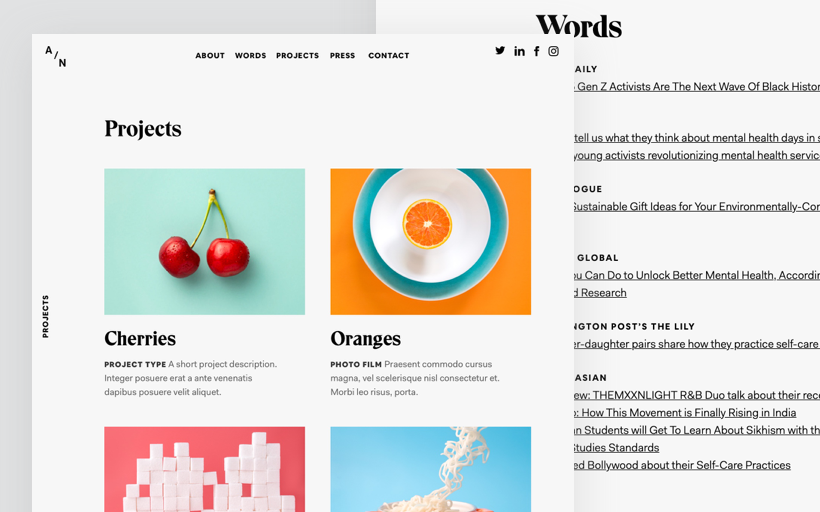
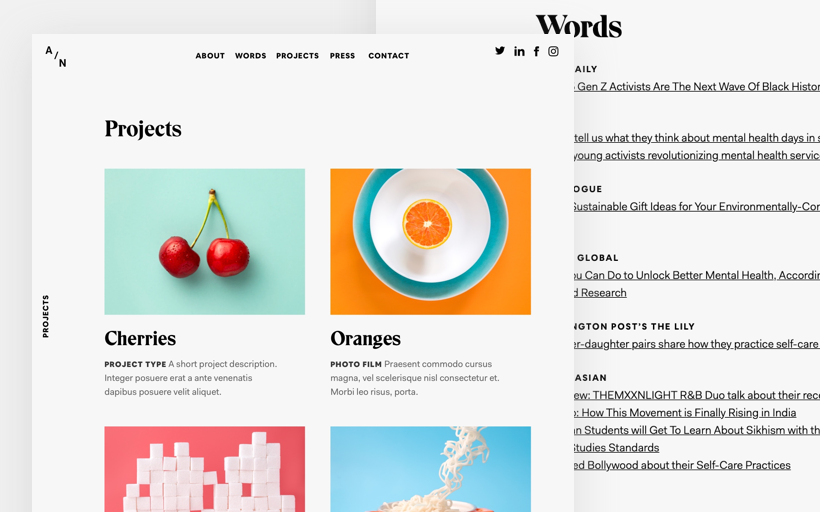
make anika lighter

Changed region(s): [[0.4268, 0.6562, 0.4878, 0.6875], [0.1524, 0.6562, 0.2134, 0.6875], [0.4573, 0.0938, 0.4878, 0.125]]

diff --git a/_client_work/anika-nayak.html b/_client_work/anika-nayak.html
@@ -8,6 +8,5 @@ language: "HTML/CSS"
 large_image_url: "/assets/images/client-work/anika-nayak@2x.png"
 small_image_url: "/assets/images/client-work/anika-nayak@1x.png"
 link: "https://anikanayak.com/"
-color: "#E1E2E3"
+color: "#F1F1F1"
 ---
-<img class="lazy" src="/assets/images/lazy.jpg" width="80%" data-src="/assets/images/client-work/anika-nayak/front-page.png">
